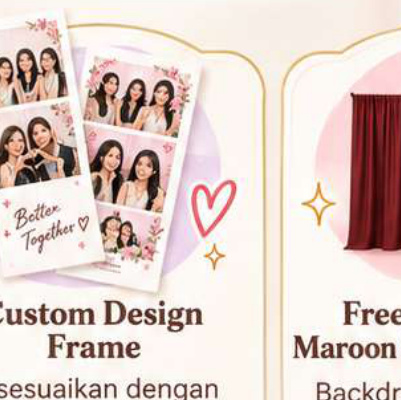
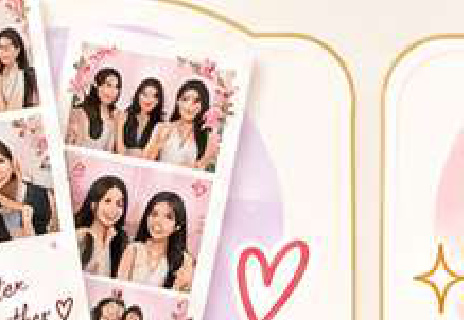
fix(landing): rapikan gambar fasilitas What's Included dengan crop visual presisi dan frame container proporsional

diff --git a/public/index.html b/public/index.html
@@ -23,7 +23,7 @@
   <link href="https://fonts.googleapis.com/css2?family=Caveat:wght@600;700&family=Fraunces:ital,opsz,wght@0,9..144,600;0,9..144,700;0,9..144,800;1,9..144,600;1,9..144,700&family=Great+Vibes&family=Plus+Jakarta+Sans:wght@400;500;600;700;800&family=Poppins:wght@400;500;600;700;800&display=swap" rel="stylesheet">
 
   <!-- Custom Landing Page Stylesheet -->
-  <link rel="stylesheet" href="/css/landing.css?v=2.1">
+  <link rel="stylesheet" href="/css/landing.css?v=2.2">
 </head>
 <body>
 
@@ -417,7 +417,9 @@
     <div class="included-grid-6">
       <!-- 1. Kamera DSLR -->
       <div class="included-feature-card">
-        <img src="/assets/pl/feat_kamera.jpg" alt="Kamera DSLR / Mirrorless Studio" class="feature-img-thumbnail">
+        <div class="feature-visual-box">
+          <img src="/assets/pl/feat_kamera.jpg" alt="Kamera DSLR / Mirrorless Studio" class="feature-img-visual" loading="lazy">
+        </div>
         <h3 class="feature-card-title">Kamera DSLR/Mirrorless</h3>
         <p class="feature-card-desc">
           Menggunakan kamera profesional studio asli (bukan webcam). Hasil foto jauh lebih tajam, jernih, dan berkualitas tinggi.
@@ -426,7 +428,9 @@
 
       <!-- 2. Custom Frame -->
       <div class="included-feature-card">
-        <img src="/assets/pl/feat_custom_frame.jpg" alt="Custom Design Frame" class="feature-img-thumbnail">
+        <div class="feature-visual-box">
+          <img src="/assets/pl/feat_custom_frame.jpg" alt="Custom Design Frame" class="feature-img-visual" loading="lazy">
+        </div>
         <h3 class="feature-card-title">Custom Design Frame</h3>
         <p class="feature-card-desc">
           Didesain khusus oleh tim grafis kami disesuaikan dengan tema, nama pengantin, tanggal, dan warna acaramu.
@@ -435,7 +439,9 @@
 
       <!-- 3. Free Backdrop Maroon -->
       <div class="included-feature-card">
-        <img src="/assets/pl/feat_backdrop.jpg" alt="Free Backdrop Maroon Simple Modern" class="feature-img-thumbnail">
+        <div class="feature-visual-box">
+          <img src="/assets/pl/feat_backdrop.jpg" alt="Free Backdrop Maroon Simple Modern" class="feature-img-visual" loading="lazy">
+        </div>
         <h3 class="feature-card-title">Free Backdrop Maroon</h3>
         <p class="feature-card-desc">
           Backdrop maroon simple modern yang mewah dan elegan siap pakai di lokasi tanpa perlu biaya sewa add-on.
@@ -444,7 +450,9 @@
 
       <!-- 4. Property Aksesoris -->
       <div class="included-feature-card">
-        <img src="/assets/pl/feat_property.jpg" alt="Property Aksesoris Lucu dan Unik" class="feature-img-thumbnail">
+        <div class="feature-visual-box">
+          <img src="/assets/pl/feat_property.jpg" alt="Property Aksesoris Lucu dan Unik" class="feature-img-visual" loading="lazy">
+        </div>
         <h3 class="feature-card-title">Property Aksesoris</h3>
         <p class="feature-card-desc">
           Berbagai properti seru, kacamata unik, bando lucu, dan papan tulisan ekspresi untuk foto yang lebih berkarakter.
@@ -453,7 +461,9 @@
 
       <!-- 5. Free Barcode Scan -->
       <div class="included-feature-card">
-        <img src="/assets/pl/feat_barcode.jpg" alt="Free Soft File Barcode Scan" class="feature-img-thumbnail">
+        <div class="feature-visual-box">
+          <img src="/assets/pl/feat_barcode.jpg" alt="Free Soft File Barcode Scan" class="feature-img-visual" loading="lazy">
+        </div>
         <h3 class="feature-card-title">Free Soft File Barcode</h3>
         <p class="feature-card-desc">
           Semua hasil foto langsung bisa diunduh ke smartphone tamu detik itu juga dengan scan barcode QR instan.
@@ -462,7 +472,9 @@
 
       <!-- 6. Professional Crew -->
       <div class="included-feature-card">
-        <img src="/assets/pl/feat_crew.jpg" alt="Professional Crew Ramah" class="feature-img-thumbnail">
+        <div class="feature-visual-box">
+          <img src="/assets/pl/feat_crew.jpg" alt="Professional Crew Ramah" class="feature-img-visual" loading="lazy">
+        </div>
         <h3 class="feature-card-title">Professional Crew</h3>
         <p class="feature-card-desc">
           Tim kru yang ramah, sopan, dan berpenampilan rapi siap mendampingi serta membantu tamu berpose selama acara.

diff --git a/public/css/landing.css b/public/css/landing.css
@@ -973,15 +973,46 @@ body {
   box-shadow: var(--shadow-hover);
 }
 
+.feature-visual-box {
+  width: 100%;
+  height: 120px;
+  background: linear-gradient(180deg, #FFF9F3 0%, #FAF0E6 100%);
+  border-radius: var(--radius-sm);
+  display: flex;
+  align-items: center;
+  justify-content: center;
+  margin-bottom: 18px;
+  border: 1.5px solid var(--border-gold-soft);
+  box-shadow: inset 0 2px 6px rgba(212, 167, 84, 0.08);
+  overflow: hidden;
+  padding: 8px 12px;
+}
+
+.feature-img-visual {
+  max-width: 100%;
+  max-height: 100%;
+  width: auto;
+  height: auto;
+  object-fit: contain;
+  transition: transform 0.35s cubic-bezier(0.34, 1.56, 0.64, 1);
+  filter: drop-shadow(0 3px 8px rgba(123, 72, 46, 0.1));
+}
+
+.included-feature-card:hover .feature-img-visual {
+  transform: scale(1.08);
+}
+
 .feature-img-thumbnail {
-  width: 100px;
-  height: 100px;
-  border-radius: 16px;
-  object-fit: cover;
+  width: 100%;
+  max-width: 120px;
+  height: 90px;
+  border-radius: var(--radius-sm);
+  object-fit: contain;
   margin-bottom: 16px;
-  border: 2px solid var(--border-gold-soft);
-  box-shadow: 0 4px 14px rgba(123, 72, 46, 0.1);
-  background: #fff;
+  background: linear-gradient(180deg, #FFF9F3 0%, #FAF0E6 100%);
+  border: 1.5px solid var(--border-gold-soft);
+  box-shadow: 0 4px 12px rgba(123, 72, 46, 0.08);
+  padding: 4px;
 }
 
 .feature-card-title {

diff --git a/public/sw.js b/public/sw.js
@@ -6,7 +6,7 @@
  * dan tetap bisa dibuka kembali saat di-refresh (F5 / reload).
  */
 
-const CACHE_NAME = 'mafaza-offline-v3.40';
+const CACHE_NAME = 'mafaza-offline-v3.41';
 
 const PRECACHE_ASSETS = [
   '/',
